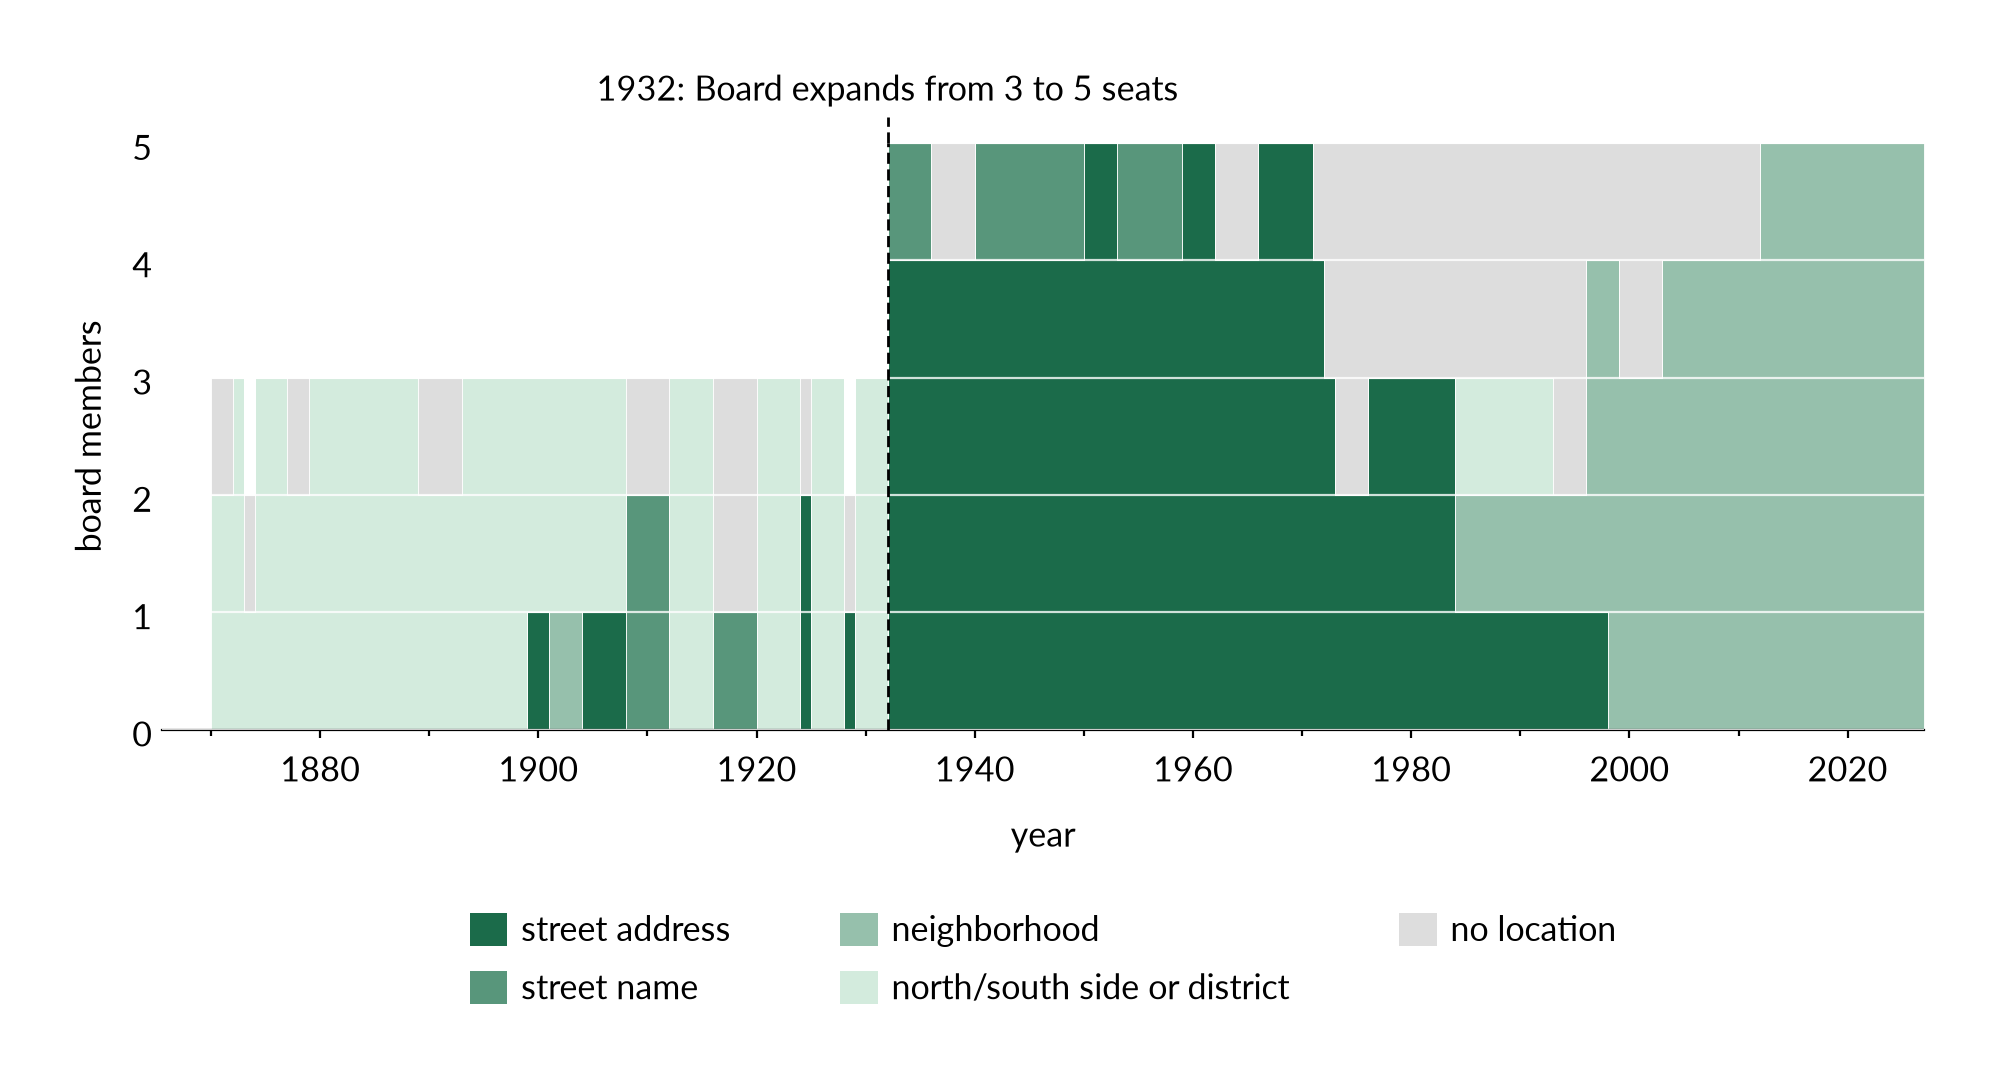
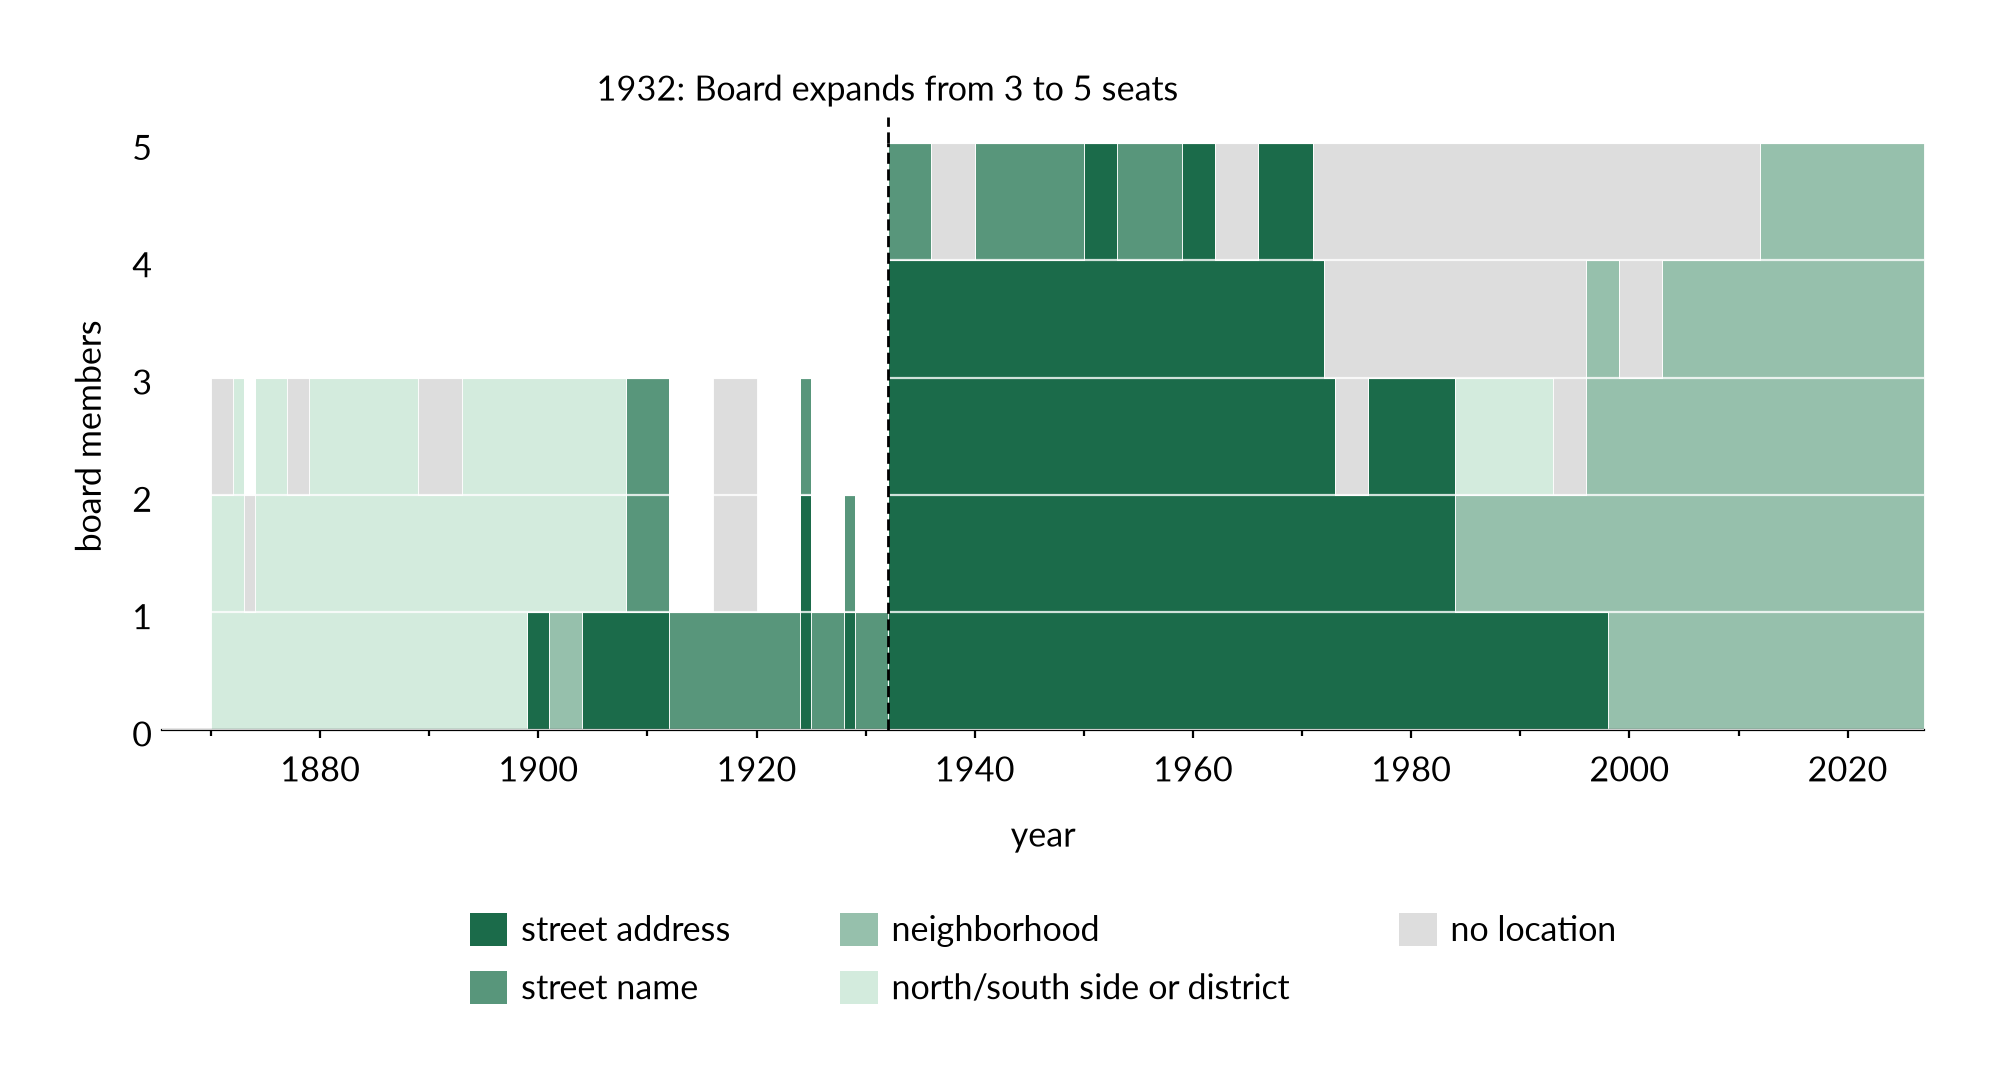
members_by_year: a magisterial term never reaches into the at-large era
Edward Duncan's newly-continuous term is the first to end exactly at the
1932 boundary (January, on the usual "ends when the next term starts"
convention), and it overflowed 1932's seat count: his one leftover month
under the old 3-seat model landed on top of the new 5-seat at-large
board's own count for the same month. A magisterial-district term now
never counts past December 1931, whatever its own end date says, since
the seat itself stopped existing in that form the moment the Board
reorganized.

Regenerated data/clean/ and figures/ after merging main (the candidate-
dedup fix) into this branch.

Changed region(s): [[0.31, 0.3367, 0.465, 0.6735]]

diff --git a/code/clean/members_by_year.py b/code/clean/members_by_year.py
@@ -25,12 +25,17 @@ NO_ROSTER_YEARS = range(1912, AT_LARGE_FROM)
 
 def months_held(members: pd.DataFrame) -> pd.DataFrame:
     """One row per term per calendar year: how many months of it were held,
-    from held_from and held_to."""
+    from held_from and held_to. A magisterial-district seat stopped existing
+    as such the moment the Board reorganized to at large, whatever a term's
+    own end date says, so none of it counts past the last month of 1931
+    (Edward Duncan's term, ending January 1932 on the usual "ends when the
+    next one starts" convention, is the first to reach that boundary)."""
     m = members
     rows = []
     for _, t in m.iterrows():
-        for year in range(t.held_from // 12, (t.held_to - 1) // 12 + 1):
-            lo, hi = max(t.held_from, year * 12), min(t.held_to, year * 12 + 12)
+        held_to = t.held_to if t.district == "at large" else min(t.held_to, AT_LARGE_FROM * 12)
+        for year in range(t.held_from // 12, (held_to - 1) // 12 + 1):
+            lo, hi = max(t.held_from, year * 12), min(held_to, year * 12 + 12)
             if hi > lo:
                 rows.append({"year": year, "months": hi - lo,
                              "race": RACE[t.race], "gender": GENDER[t.gender],
